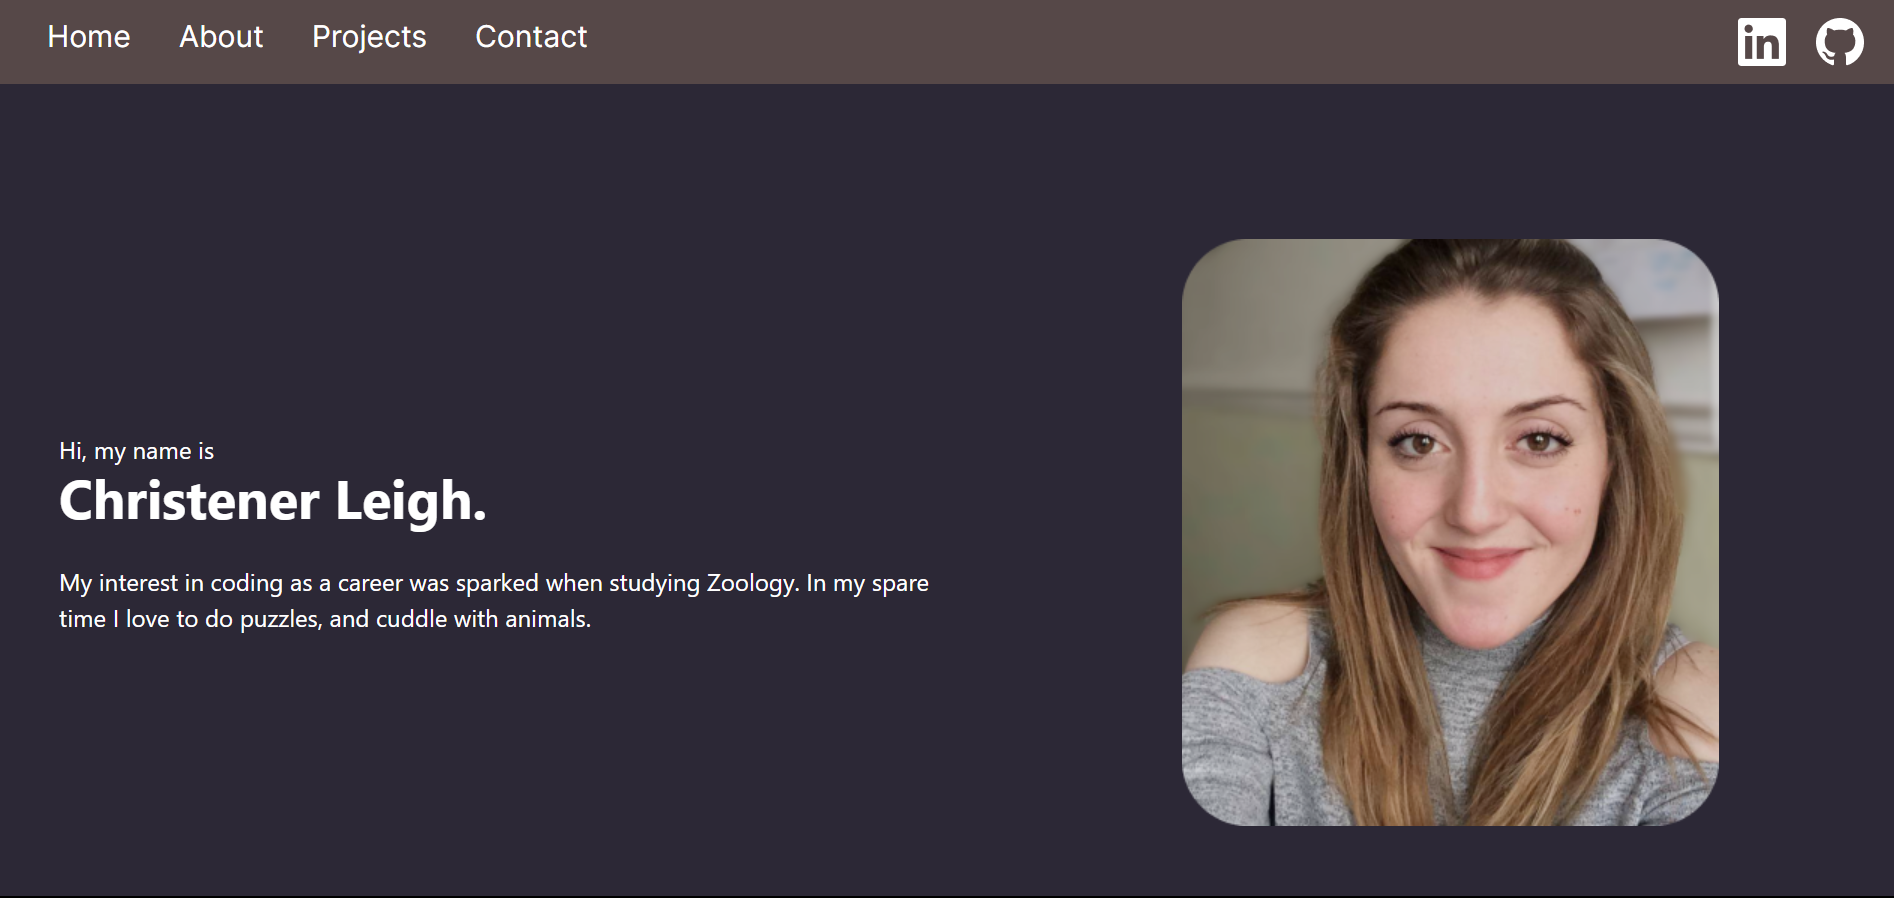
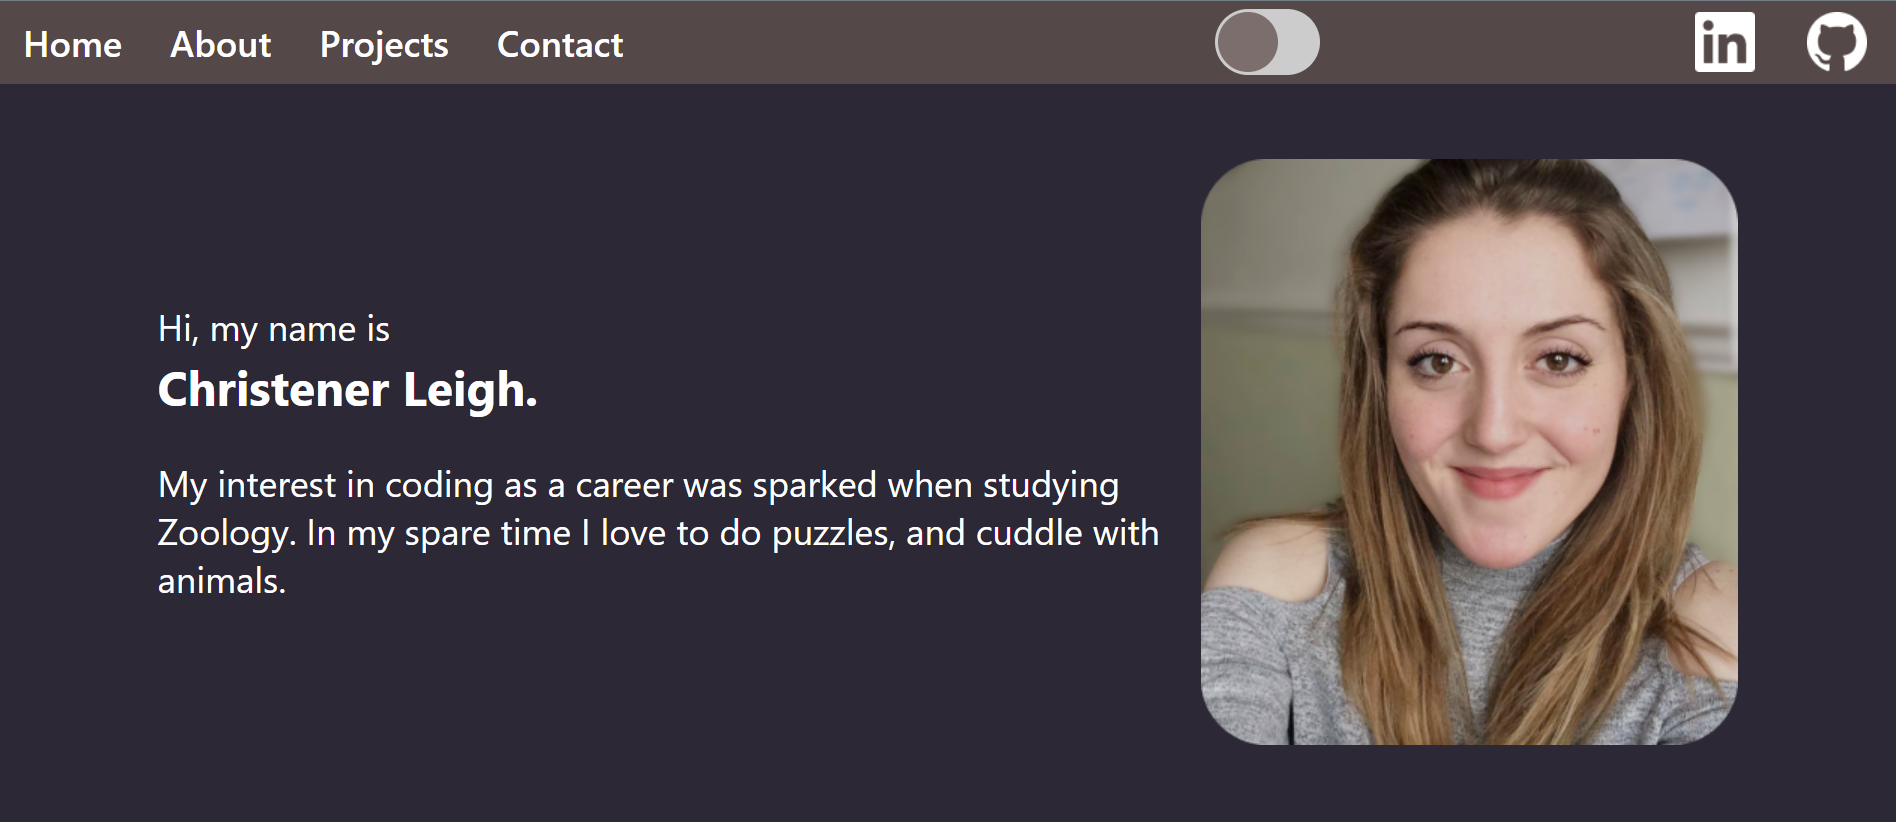
added image switch depending on bg color - that should be all :DDDDD

diff --git a/Client/Homepage/main.js b/Client/Homepage/main.js
@@ -19,17 +19,18 @@ window.addEventListener('scroll', function () {
 function toggleTheme() {
 
     let bodyElement = document.body;
+    let imageElement = document.querySelector('.images');
 
     if (bodyElement.classList.contains('homepage-custom-color')) {
         // If homepage has custom color, switch to light theme
         bodyElement.classList.remove('homepage-custom-color');
         bodyElement.classList.add('light-theme');
-
+        imageElement.src = "./Images/portfolio/dark-mode.png";
         localStorage.setItem('theme', 'light');
     } else {
         bodyElement.classList.add('homepage-custom-color');
         bodyElement.classList.remove('light-theme');
-
+        imageElement.src = "./Images/portfolio/light-mode.png"
         localStorage.setItem('theme', 'dark');
     }
 }

diff --git a/Client/Homepage/index.html b/Client/Homepage/index.html
@@ -122,7 +122,7 @@
         <div class="relative inline-block">
             <div class="inline-flex">
                 <div class="aspect-w-5 flex aspect-h-6">
-          <img class="custom-width custom-heightImage-one" src="./Images/portfolio/light-mode.png" alt="Portfolio Image">
+          <img class="images custom-width custom-heightImage-one" src="./Images/portfolio/light-mode.png" alt="Portfolio Image">
     </div>
 </div>
 </div>
